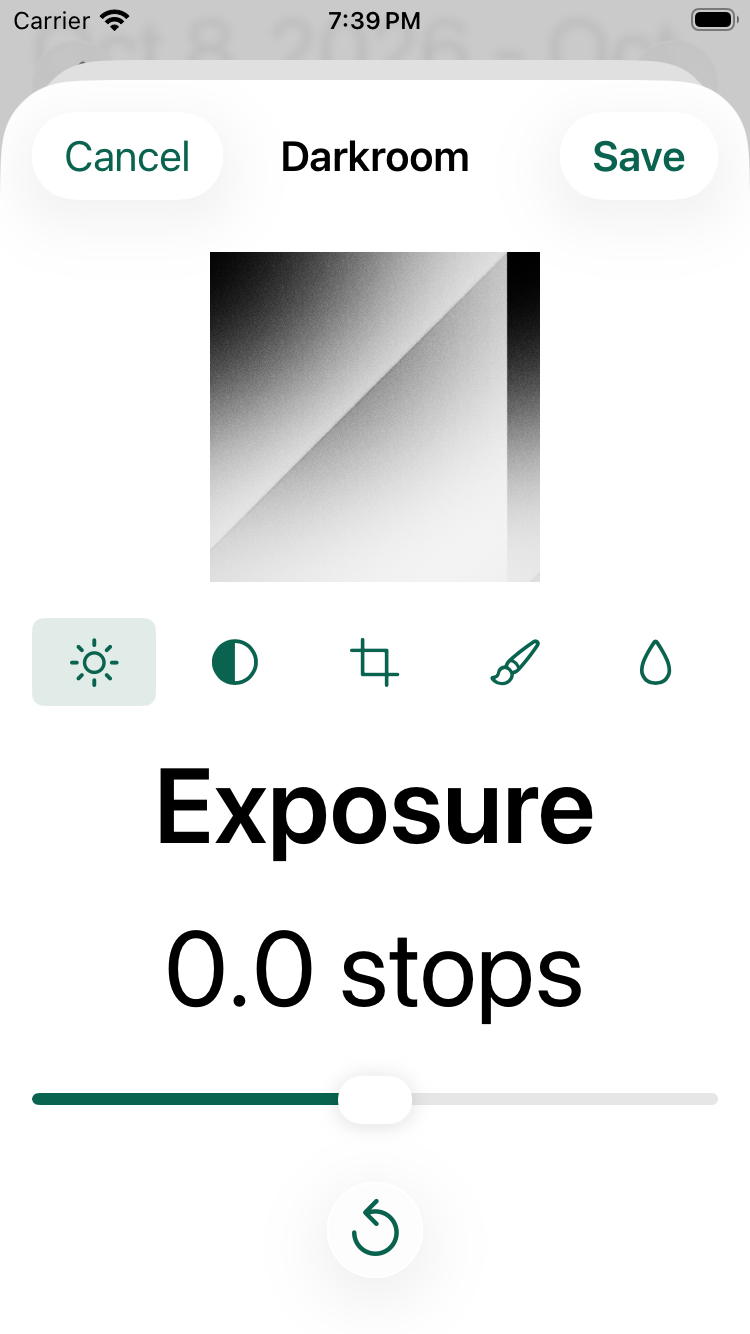
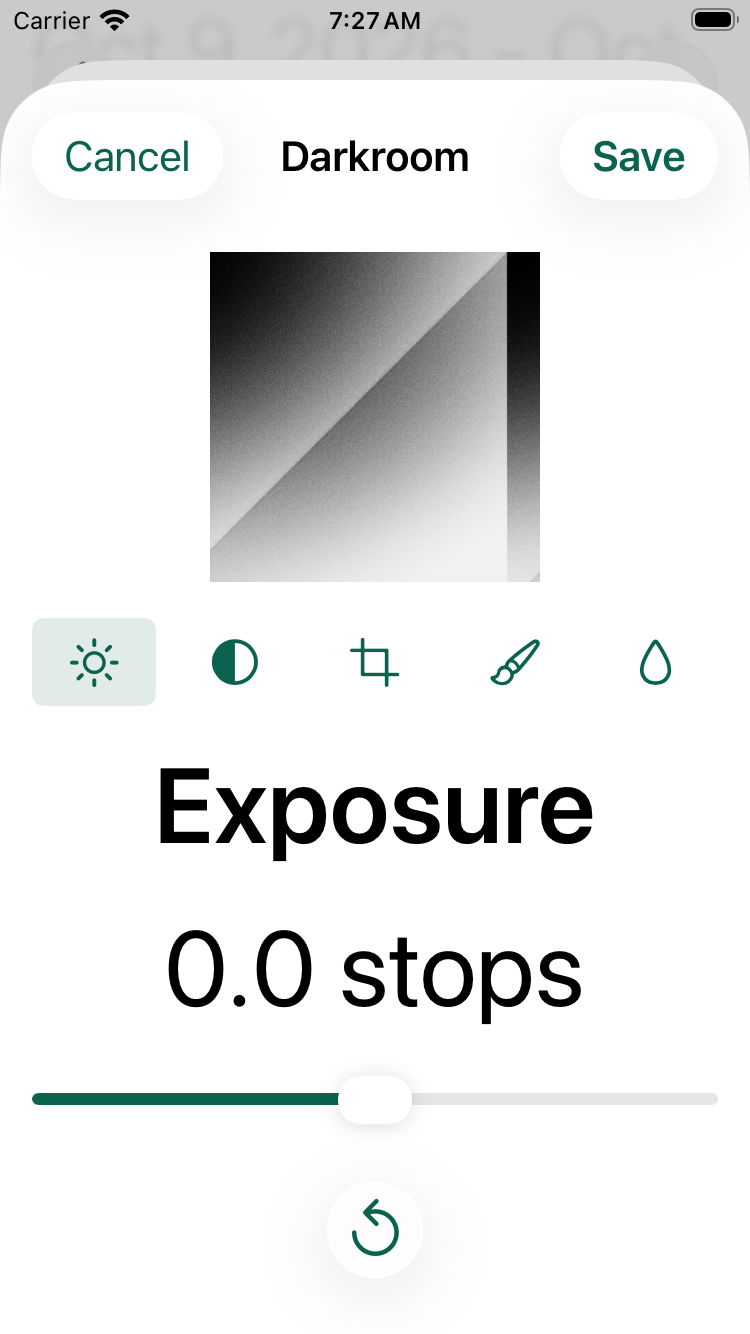
fix(evidence): refresh black-and-white screenshots and measure 6×6 Load text
Re-render the 20 bw-* screenshots with the fixed black-and-white tone curve
and grain (ffb54db), on the iPhone 17 Pro and iPhone SE in light and dark,
and drop the evidence doc's "pending refresh" marks.

Add ContentSizeTests for the 6×6 Load Film screen's controls line, its three
per-stock look lines and its viewfinder note at all twelve text sizes, as
their own tests so the Super 8 and 16mm tests stay inside the time allowance.

Changed region(s): [[0.276, 0.1844, 0.736, 0.4303], [0.46, 0.0, 0.5213, 0.0307]]

diff --git a/App/Immerse/UITests/ContentSizeTests.swift b/App/Immerse/UITests/ContentSizeTests.swift
@@ -1,7 +1,7 @@
 import XCTest
 
 /// Measures that every text element the accessibility audits show follows the person's text size, in the simulator's
-/// light or dark appearance: the empty Journal, the Camera catalog, the Super 8 and 16mm Load Film screens (the 16mm
+/// light or dark appearance: the empty Journal, the Camera catalog, the Super 8, 16mm and 6×6 Load Film screens (the 16mm
 /// with its Film Stock choice, the control the 6×6 shows too) and Settings in landscape. It stands in for Xcode's
 /// Dynamic Type audit, which grows the text in place and flagged correctly resizing text from run to run
 /// (Evidence/NativeApp/qa13-audit-exceptions-052.md and Evidence/NativeApp/scroll-indicator-drag-053.md). Each element's
@@ -115,6 +115,17 @@ final class ContentSizeTests: XCTestCase {
         Target(name: "Black and white", type: .button, label: "Black and white"),
     ]
 
+    /// The 6×6 Load screen's own text: its controls line, its look lines, one per Film Stock, and its viewfinder note. The
+    /// Film Stock choice is the control the 16mm screen shows and is measured there.
+    private static let sixBySix: [Target] = [
+        Target(name: "6×6 Controls", type: .staticText, label: "Square framing, deliberate focus and exposure, optical focus only"),
+        Target(name: "6×6 Picture", type: .staticText, label: "Borderless square picture"),
+        Target(name: "6×6 Color look", type: .staticText, label: "Color: natural, warm color, very fine grain and gentle contrast"),
+        Target(name: "6×6 Black and white look", type: .staticText, label: "Black and white: high contrast and distinct grain"),
+        Target(name: "6×6 Viewfinder note", type: .staticText,
+               label: "Its viewfinder shows the scene reversed left to right, as a waist-level finder does. Your photos are not reversed."),
+    ]
+
     /// The empty state's element spans its camera symbol and title; the title is measured below the symbol.
     private static let journal: [Target] = [
         Target(name: "Empty Journal", type: .staticText, label: "Your Journal begins here", symbol: ("camera", .above)),
@@ -191,6 +202,19 @@ final class ContentSizeTests: XCTestCase {
     func testLoadScreenTextAtAccessibilityExtraExtraLarge() throws { check("AccessibilityXXL") }
     func testLoadScreenTextAtAccessibilityExtraExtraExtraLarge() throws { check("AccessibilityXXXL") }
 
+    func testSixBySixLoadScreenTextAtExtraSmall() throws { checkSixBySix("XS") }
+    func testSixBySixLoadScreenTextAtSmall() throws { checkSixBySix("S") }
+    func testSixBySixLoadScreenTextAtMedium() throws { checkSixBySix("M") }
+    func testSixBySixLoadScreenTextAtLarge() throws { checkSixBySix("L") }
+    func testSixBySixLoadScreenTextAtExtraLarge() throws { checkSixBySix("XL") }
+    func testSixBySixLoadScreenTextAtExtraExtraLarge() throws { checkSixBySix("XXL") }
+    func testSixBySixLoadScreenTextAtExtraExtraExtraLarge() throws { checkSixBySix("XXXL") }
+    func testSixBySixLoadScreenTextAtAccessibilityMedium() throws { checkSixBySix("AccessibilityM") }
+    func testSixBySixLoadScreenTextAtAccessibilityLarge() throws { checkSixBySix("AccessibilityL") }
+    func testSixBySixLoadScreenTextAtAccessibilityExtraLarge() throws { checkSixBySix("AccessibilityXL") }
+    func testSixBySixLoadScreenTextAtAccessibilityExtraExtraLarge() throws { checkSixBySix("AccessibilityXXL") }
+    func testSixBySixLoadScreenTextAtAccessibilityExtraExtraExtraLarge() throws { checkSixBySix("AccessibilityXXXL") }
+
     func testJournalAndCatalogTextAtExtraSmall() throws { checkJournalAndCatalog("XS") }
     func testJournalAndCatalogTextAtSmall() throws { checkJournalAndCatalog("S") }
     func testJournalAndCatalogTextAtMedium() throws { checkJournalAndCatalog("M") }
@@ -247,6 +271,21 @@ final class ContentSizeTests: XCTestCase {
         }
         app.terminate()
         finish(category, rows, Self.superEight + Self.sixteenMillimeter)
+    }
+
+    /// The 6×6 Load screen, in tests of its own so the Super 8 and 16mm tests stay inside the per-test time allowance.
+    private func checkSixBySix(_ category: String) {
+        let app = launch(category)
+        app.buttons["start-film"].tap()
+        let row = app.buttons["camera-mediumFormat6x6"]
+        for _ in 0..<8 where !row.isHittable { drag(app, by: -300) }
+        row.tap()
+        XCTAssertTrue(app.navigationBars["6×6"].waitForExistence(timeout: 5), "6×6 \(category)")
+        // Let the push finish, so the first rows are measured where they rest rather than mid-transition.
+        Thread.sleep(forTimeInterval: 1)
+        let rows = record(measure(app, Self.sixBySix, category, below: "6×6"))
+        app.terminate()
+        finish(category, rows, Self.sixBySix)
     }
 
     private func checkJournalAndCatalog(_ category: String) {

diff --git a/Evidence/NativeApp/prd-2-slice-3-film-stock.md b/Evidence/NativeApp/prd-2-slice-3-film-stock.md
@@ -56,7 +56,7 @@ This is simulator and software evidence only; physical-iPhone behavior stays def
 | `FilmRuntimeTests/FilmStockDevelopmentTests` | Production Development, Darkroom toning and Save to Photos for a black-and-white 6×6; a black-and-white 16mm Movie end to end, including Discard reassembly and export; an earlier Film finishing a version 1 Development in color |
 | `ImmerseTests` | Load copy for both Cameras; copy names no film; `testLoadFilmRecordsTheChosenFilmStockAndNeverLoadsWithoutOne` |
 | `ImmerseUITests/FilmStockUITests` | The choice on both Cameras (Color first, Black and white chosen), an audit of the screen in light and dark (it joins the dark rerun in `Scripts/validate-local.sh`), loading with the suggested title, and the Film screen; no choice on the other three Cameras |
-| `ImmerseUITests/ContentSizeTests` | "Film Stock", "Color" and "Black and white" at all twelve sizes |
+| `ImmerseUITests/ContentSizeTests` | "Film Stock", "Color" and "Black and white" on the 16mm Load screen, and the 6×6 Load screen's controls line, its three look lines and its viewfinder note (`testSixBySixLoadScreenTextAt…`, one test per size), at all twelve sizes |
 | `PopulatedJournalHarness` | A toned black-and-white 6×6 print in the Darkroom, Photo, Film and Journal screens; the Darkroom fit at the default and largest sizes with toning; a black-and-white 16mm Developed Movie |
 
 ## Test changes worth knowing
@@ -69,18 +69,18 @@ This is simulator and software evidence only; physical-iPhone behavior stays def
 ## Screenshots
 
 Under `prd-2-slice-3-film-stock/`, from `FilmStockUITests` and the populated Journal harness (black-and-white tests run with the natural still and movie of `Evidence/AssetReview`), each on an iPhone 17 Pro (`iphone17pro`) and an iPhone SE (3rd generation) (`iphonese`), iOS 26.5, in light and dark: 44 files.
-The 20 `bw-*` files were captured with the first build, before the black-and-white tone and grain fix (ffb54db): they show its too-bright black-and-white tones, not the fixed look, and are pending a refresh with the fixed renderer.
+The 20 `bw-*` files were re-rendered on 2026-10-09 with the fixed renderer, after the black-and-white tone and grain fix (ffb54db): the first build's renders were too bright, with the window and tablecloth blown out, and these keep highlight detail with mid-tones at display mid-gray.
 The other 24 files show no developed picture, so the fix does not change them.
 
 | File stem | Shows |
 | --- | --- |
 | `6x6-load-color`, `6x6-load-black-and-white`, `16mm-load-color`, `16mm-load-black-and-white` | Load Film with each Film Stock selected |
 | `6x6-film-screen-black-and-white`, `16mm-film-screen-black-and-white` | The loaded Film's screen naming "Black and white Film Stock" |
-| `bw-6x6-film-screen` | Developed black-and-white 6×6 prints on the Film screen (before the fix; pending refresh) |
-| `bw-6x6-darkroom-sepia` | The Darkroom with Chemical toning (sepia) on a black-and-white print; no Filtration tool (before the fix; pending refresh) |
-| `bw-6x6-journal` | The Journal card with the toned print beside an untoned one (before the fix; pending refresh) |
-| `bw-6x6-darkroom-fit-largest` | The black-and-white Darkroom at the largest text size, fitting with five tools (before the fix; pending refresh) |
-| `bw-16mm-developed-movie` | A frame of a black-and-white 16mm Developed Movie on the Film screen (before the fix; pending refresh) |
+| `bw-6x6-film-screen` | Developed black-and-white 6×6 prints on the Film screen |
+| `bw-6x6-darkroom-sepia` | The Darkroom with Chemical toning (sepia) on a black-and-white print; no Filtration tool |
+| `bw-6x6-journal` | The Journal card with the toned print beside an untoned one |
+| `bw-6x6-darkroom-fit-largest` | The black-and-white Darkroom at the largest text size, fitting with five tools |
+| `bw-16mm-developed-movie` | A frame of a black-and-white 16mm Developed Movie on the Film screen |
 
 ## Deferred to CAM-17: the 16mm's stock-specific glow wording
 
@@ -119,5 +119,6 @@ On 2026-10-08 and 2026-10-09 (Xcode 26.5, iOS 26.5 simulators, iPhone 17 Pro unl
 - Hosted `ImmerseTests` (without the StoreKit tests, which need the iOS 26.2 fixture runtime): 40 pass.
 - `ImmerseUITests`, the whole suite in light: 65 pass; `JournalFlowTests`, `MovieCapacityUITests` and `FilmStockUITests` again in dark, as `Scripts/validate-local.sh` reruns them: 14 pass. The two 16mm largest-text audit tests passed 3 of 3 in light and 3 of 3 in dark on the shipped configuration.
 - `FilmStockUITests` also passes on an iPhone SE (3rd generation) in light and dark.
-- Populated Journal harness: all 23 tests pass; its black-and-white tests and Darkroom fit tests also pass in dark and on the iPhone SE in light and dark. Not rerun since the fix; its black-and-white screenshots are pending refresh.
+- The 12 `testSixBySixLoadScreenTextAt…` measurements, added after the first validation run, pass in light and dark (2026-10-09).
+- Populated Journal harness: all 23 tests pass; its black-and-white tests and Darkroom fit tests also pass in dark and on the iPhone SE in light and dark. After the fix, its three black-and-white tests (toning, the 16mm Developed Movie and the largest-size Darkroom fit) passed again on both iPhones in light and dark, and produced the `bw-*` screenshots.
 - The color masters and Movie frames of all five Cameras hash the same before and after the change.
